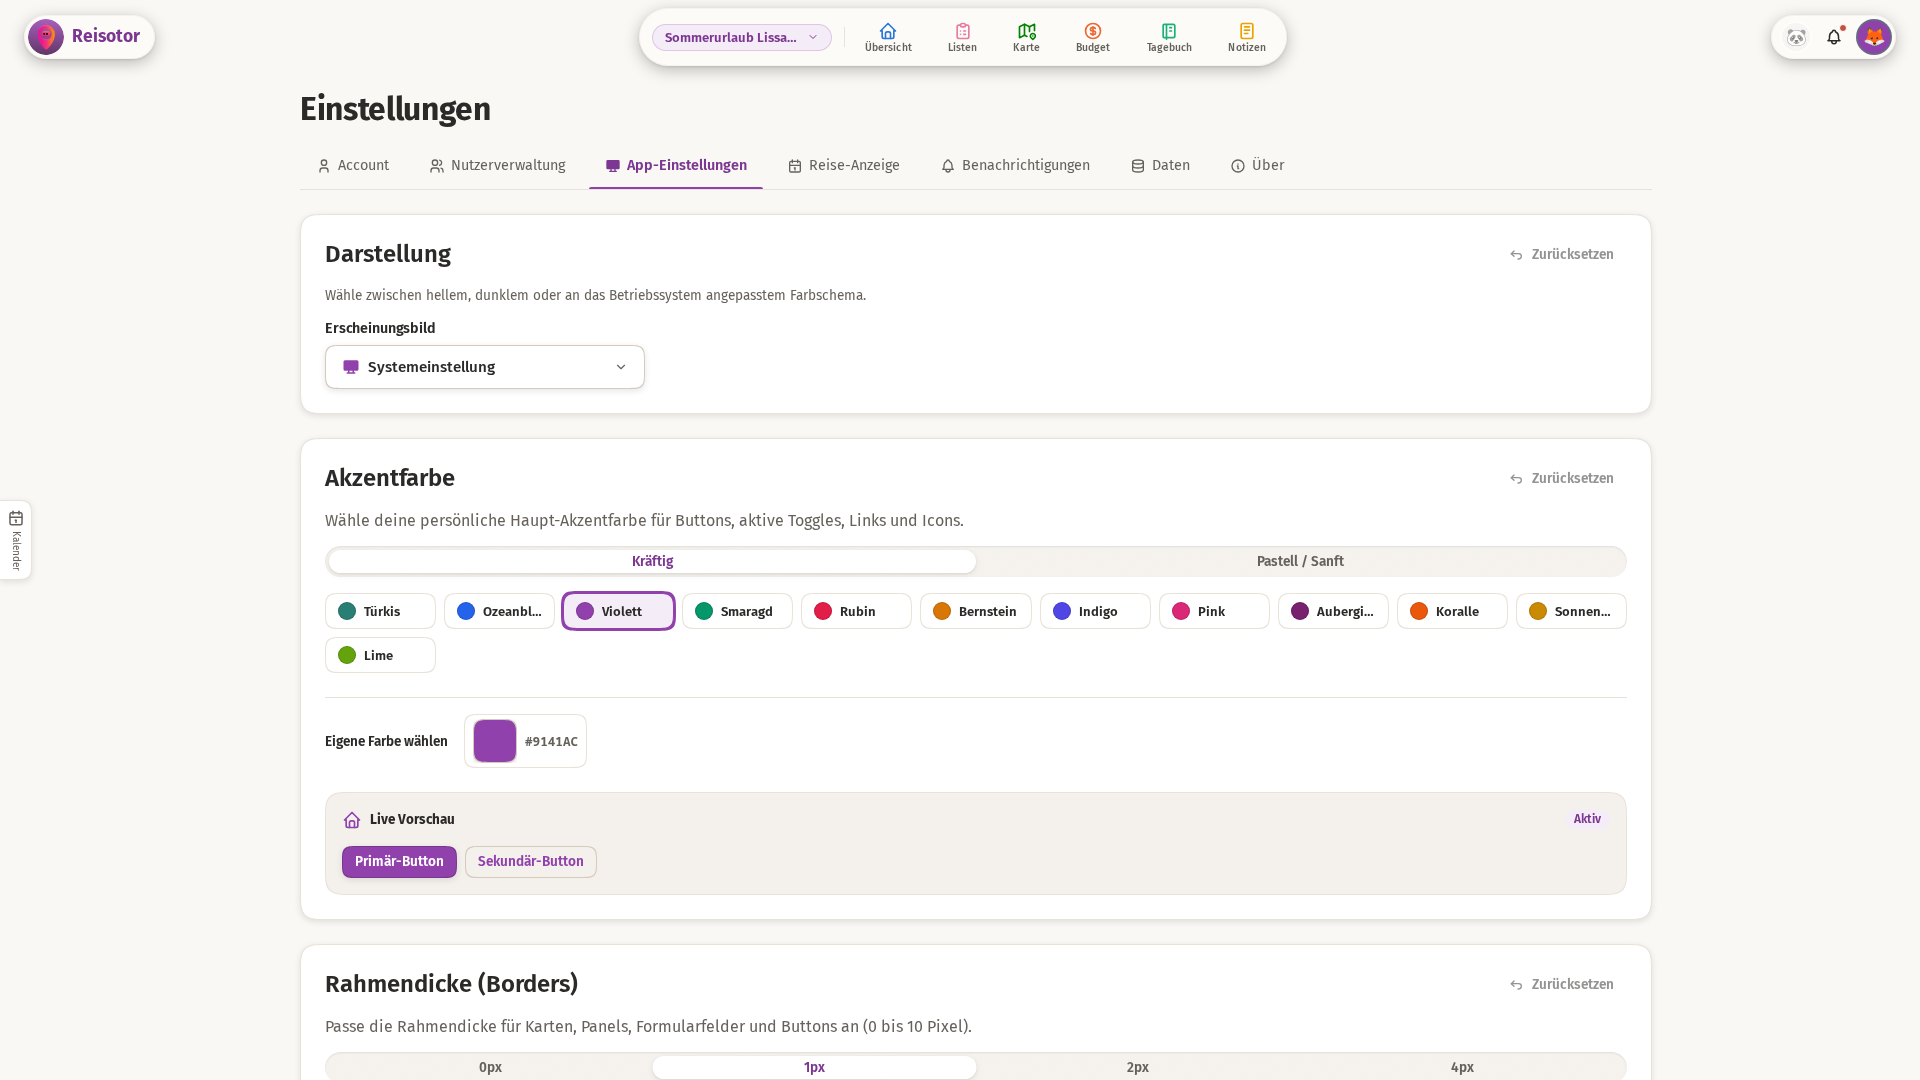
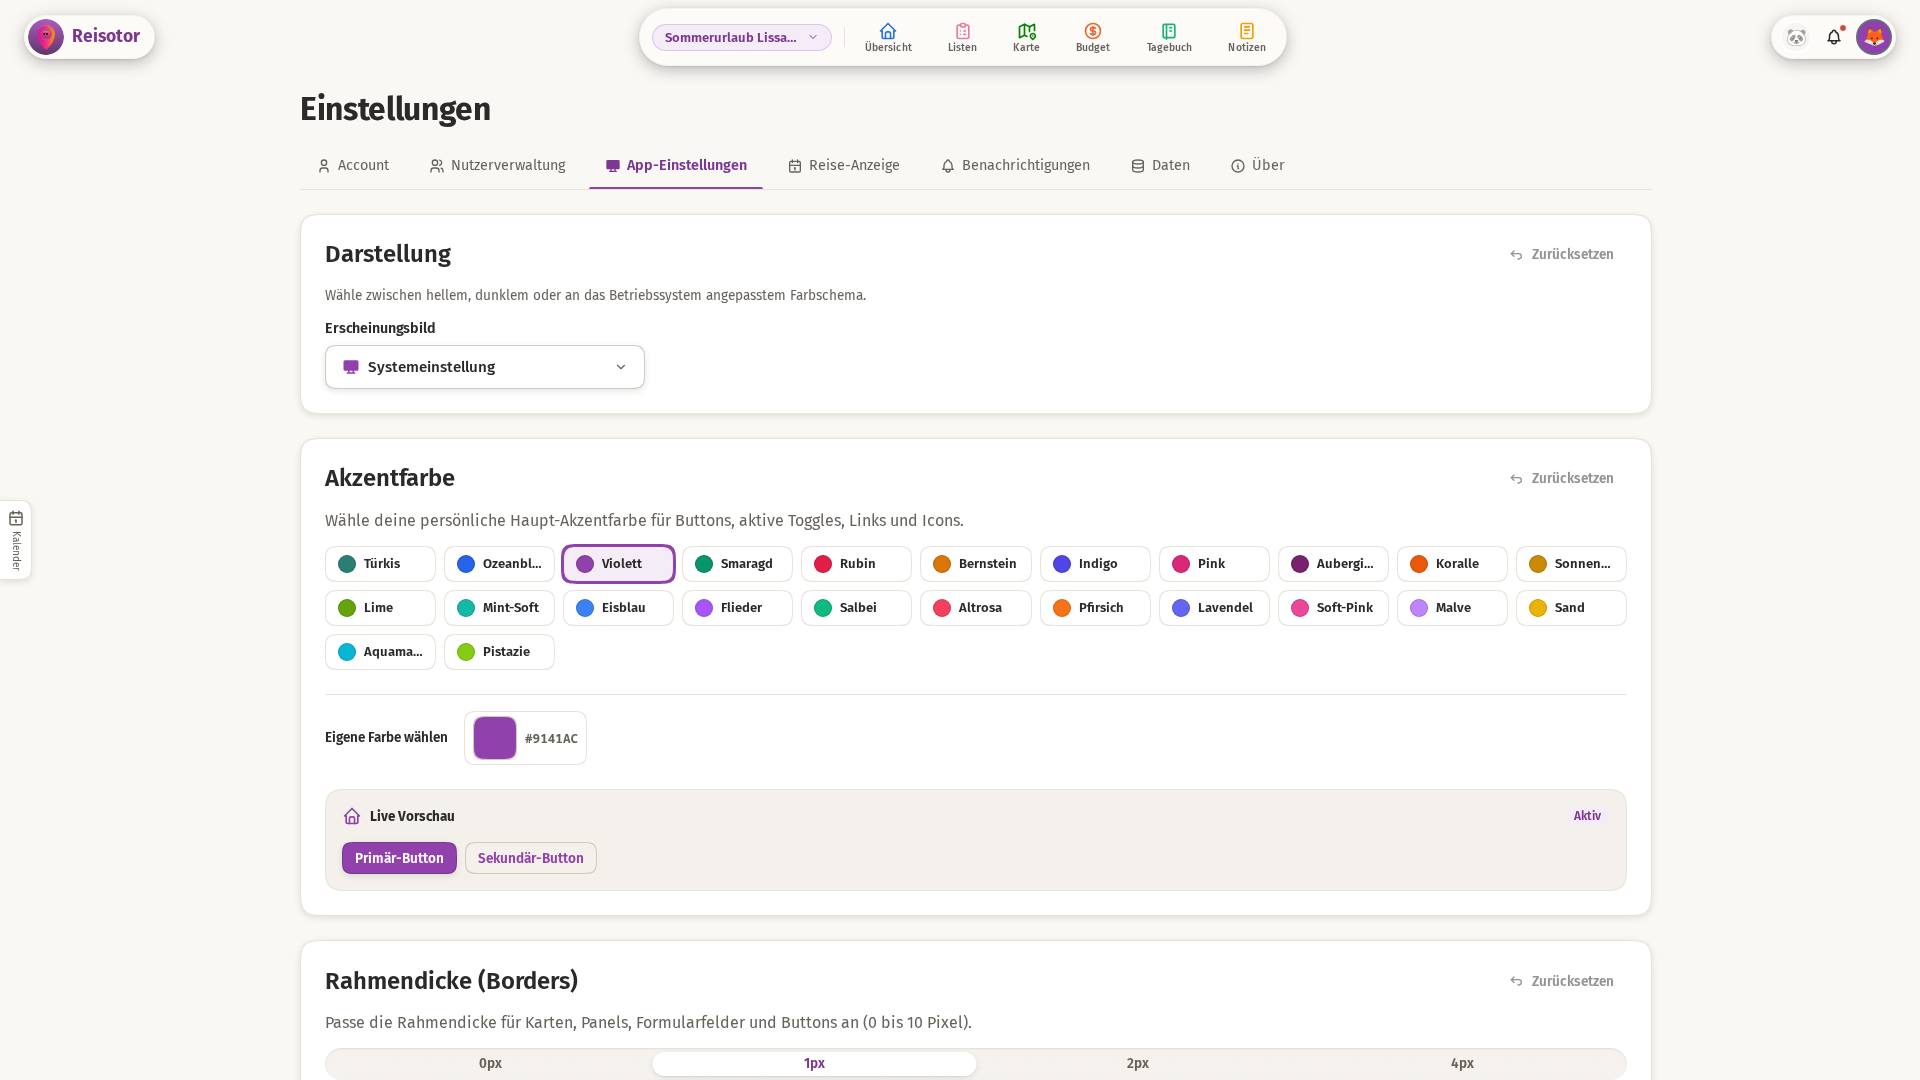
feat(settings): display all accent color presets directly without toggle

diff --git a/frontend/src/components/AccentColorSettings.vue b/frontend/src/components/AccentColorSettings.vue
@@ -1,12 +1,10 @@
 <script setup lang="ts">
-import { ref, computed } from 'vue';
+import { computed } from 'vue';
 import {
   useUiSettingsStore,
-  VIBRANT_PRIMARY_COLOR_PRESETS,
-  PASTEL_PRIMARY_COLOR_PRESETS,
+  PRIMARY_COLOR_PRESETS,
   DEFAULT_PRIMARY_COLOR,
 } from '../stores/uiSettings';
-import SegmentedToggle from './SegmentedToggle.vue';
 import Button from './primitives/Button.vue';
 import Card from './primitives/Card.vue';
 import Badge from './primitives/Badge.vue';
@@ -15,19 +13,6 @@ import { ACTION_ICONS } from '../utils/actionIcons';
 import { SECTION_ICON_DEFS } from '../utils/sectionIcons';
 
 const uiSettings = useUiSettingsStore();
-
-const paletteMode = ref<'vibrant' | 'soft'>('vibrant');
-
-const PALETTE_TOGGLE_OPTIONS = [
-  { value: 'vibrant', label: 'Kräftig' },
-  { value: 'soft', label: 'Pastell / Sanft' },
-];
-
-const activePresets = computed(() => {
-  return paletteMode.value === 'vibrant'
-    ? VIBRANT_PRIMARY_COLOR_PRESETS
-    : PASTEL_PRIMARY_COLOR_PRESETS;
-});
 
 const isDefault = computed(() => {
   return uiSettings.primaryColor.toLowerCase() === DEFAULT_PRIMARY_COLOR.toLowerCase();
@@ -59,19 +44,10 @@ function resetColor() {
       Wähle deine persönliche Haupt-Akzentfarbe für Buttons, aktive Toggles, Links und Icons.
     </p>
 
-    <!-- Palette Toggle (Kräftig vs Pastell) -->
-    <div class="palette-toggle-wrap">
-      <SegmentedToggle
-        :model-value="paletteMode"
-        :options="PALETTE_TOGGLE_OPTIONS"
-        @update:model-value="(v) => (paletteMode = v as 'vibrant' | 'soft')"
-      />
-    </div>
-
     <!-- Farbauswahl-Grid -->
     <div class="color-presets-grid">
       <button
-        v-for="preset in activePresets"
+        v-for="preset in PRIMARY_COLOR_PRESETS"
         :key="preset.hex"
         type="button"
         class="color-preset-btn"
@@ -118,10 +94,6 @@ function resetColor() {
 </template>
 
 <style scoped>
-.palette-toggle-wrap {
-  margin-top: var(--space-3);
-}
-
 .color-presets-grid {
   display: grid;
   grid-template-columns: repeat(auto-fill, minmax(110px, 1fr));

diff --git a/release-notes/pending/settings-sync.md b/release-notes/pending/settings-sync.md
@@ -4,3 +4,4 @@
 - ↩ **Personalisierung zurücksetzen**: Alle Darstellungs- und Design-Einstellungen bieten jetzt einen Knopf, um mit einem Klick zu den Standardwerten zurückzukehren.
 - 🏷 **Pflichtfeld-Markierungen**: Das Sternchen (*) für erforderliche Felder wie Benutzername und Passwort wird nun wieder sauber direkt neben der Beschriftung angezeigt.
 - 🎨 **Farbmodus für Icons**: In den Icon-Einstellungen lässt sich die Farbgebung (Farbig oder Monochrom) für Navigation, Wetter und Kategorien nun über kompakte Umschalter direkt unter den jeweiligen Bereichen festlegen.
+- 🌈 **Alle Akzentfarben auf einen Blick**: Die Trennung zwischen kräftigen und pastellfarbenen Farbtönen wurde vereinfacht – alle 24 vorbereiteten Akzentfarben stehen nun direkt in einer gemeinsamen, übersichtlichen Farbauswahl bereit.
